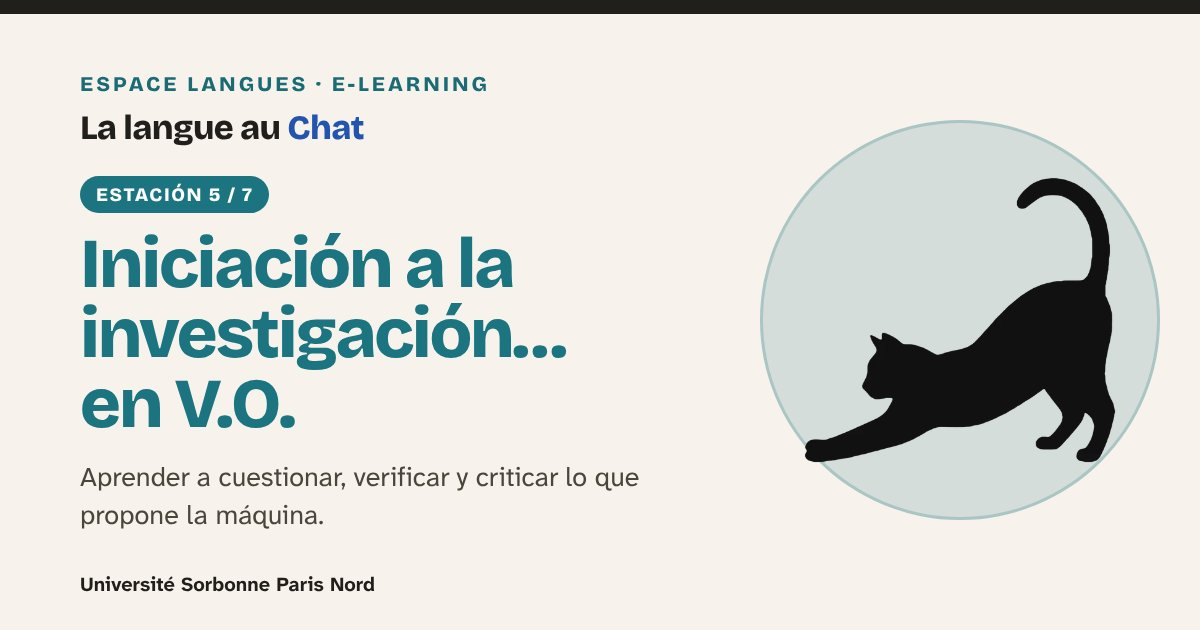
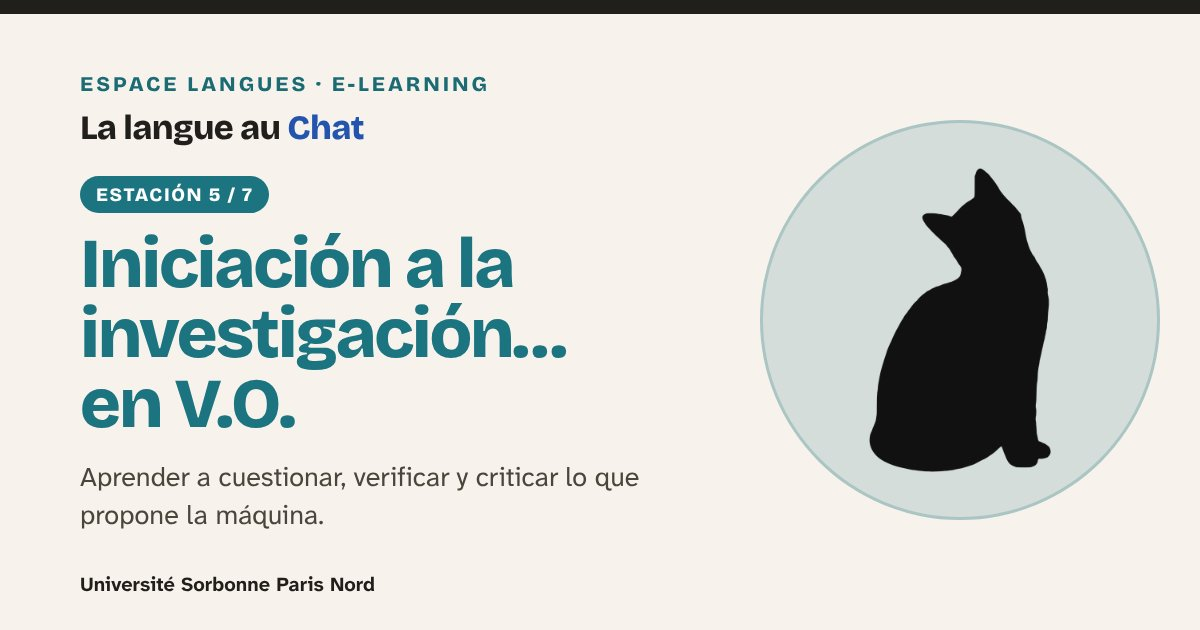
Station 5 : nouvelle silhouette de chat (étape intermédiaire)
Claude-Session: https://claude.ai/code/session_01SBniN9QcJnc3Njnz1cARzX

Changed region(s): [[0.6475, 0.2714, 0.9558, 0.754]]

diff --git a/es/initiation-recherche.html b/es/initiation-recherche.html
@@ -59,7 +59,7 @@
 <h1>Iniciación a la investigación… en V.O.</h1>
 <p class="lead">La investigación académica en inglés está a unos pocos prompts de distancia. Lo importante no es producir rápido, sino aprender a cuestionar, verificar y criticar lo que propone la máquina.</p>
 </div>
-<div class="s-art" aria-hidden="true"><img src="../img/p10_440.webp" alt="" width="505" height="463" aria-hidden="true"></div></div></div>
+<div class="s-art" aria-hidden="true"><img src="../img/cat_s5.webp" alt="" width="456" height="764" aria-hidden="true"></div></div></div>
 <div class="wrap layout">
 <aside class="toc" aria-label="En esta página"><details open><summary>En esta página</summary><h2>En esta página</h2><ol><li><a href="#activites">Actividades</a></li><li><a href="#demo-defi">Demo y reto</a></li><li><a href="#traduction">¿Y la traducción?</a></li><li><a href="#pistes">Líneas que exploramos</a></li><li><a href="#conclusion">Pero si la IAG lo puede hacer todo, ¿qué pasa con la investigación?</a></li></ol>
 <div class="fold-all"><button type="button" class="btn small ghost" data-fold="open">Desplegar todo</button><button type="button" class="btn small ghost" data-fold="close">Plegar todo</button></div></details></aside>

diff --git a/initiation-recherche.html b/initiation-recherche.html
@@ -59,7 +59,7 @@
 <h1>Initiation à la recherche… en VO</h1>
 <p class="lead">La recherche académique en anglais est à portée de quelques prompts. L’enjeu n’est pas de produire vite mais d’apprendre à questionner, vérifier et critiquer ce que la machine propose.</p>
 </div>
-<div class="s-art" aria-hidden="true"><img src="img/p10_440.webp" alt="" width="505" height="463" aria-hidden="true"></div></div></div>
+<div class="s-art" aria-hidden="true"><img src="img/cat_s5.webp" alt="" width="456" height="764" aria-hidden="true"></div></div></div>
 <div class="wrap layout">
 <aside class="toc" aria-label="Sur cette page"><details open><summary>Sur cette page</summary><h2>Sur cette page</h2><ol><li><a href="#activites">Activités</a></li><li><a href="#demo-defi">Démo et défi</a></li><li><a href="#traduction">Et la traduction ?</a></li><li><a href="#pistes">Nos pistes</a></li><li><a href="#conclusion">Mais si l’IAG peut tout faire, que devient la recherche ?</a></li></ol>
 <div class="fold-all"><button type="button" class="btn small ghost" data-fold="open">Tout déplier</button><button type="button" class="btn small ghost" data-fold="close">Tout replier</button></div></details></aside>

diff --git a/en/initiation-recherche.html b/en/initiation-recherche.html
@@ -59,7 +59,7 @@
 <h1>First steps in research… in the original language</h1>
 <p class="lead">Academic research in English is just a few prompts away. The point is not to produce quickly but to learn to question, check and critique what the machine suggests.</p>
 </div>
-<div class="s-art" aria-hidden="true"><img src="../img/p10_440.webp" alt="" width="505" height="463" aria-hidden="true"></div></div></div>
+<div class="s-art" aria-hidden="true"><img src="../img/cat_s5.webp" alt="" width="456" height="764" aria-hidden="true"></div></div></div>
 <div class="wrap layout">
 <aside class="toc" aria-label="On this page"><details open><summary>On this page</summary><h2>On this page</h2><ol><li><a href="#activites">Activities</a></li><li><a href="#demo-defi">Demo and challenge</a></li><li><a href="#traduction">What about translation?</a></li><li><a href="#pistes">Avenues we are exploring</a></li><li><a href="#conclusion">But if GenAI can do everything, what becomes of research?</a></li></ol>
 <div class="fold-all"><button type="button" class="btn small ghost" data-fold="open">Expand all</button><button type="button" class="btn small ghost" data-fold="close">Collapse all</button></div></details></aside>
